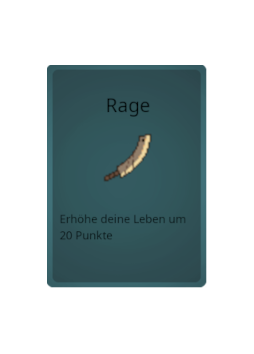
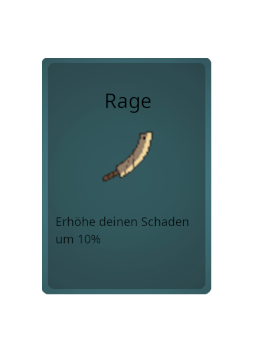
3 upgrade cards appear after leveling up

diff --git a/src/main.py b/src/main.py
@@ -38,6 +38,8 @@ class Survivor:
         self.skeleton_sprites = {}
         self.zombie_sprites = {}
         self.franky_sprites = {}
+        self.upgrade_card_sprites = {}
+        self.upgrade_types = ["dmg", "defense", "health"]
         #Liste von Bildpfaden
         #player_camera = Camera(screen_width, screen_height)
         self.player_can_be_hit = True
@@ -55,7 +57,7 @@ class Survivor:
         
         self.load_sprites_to_animate()
         self.setup_map()
-        Upgrade((self.all_sprites), self.player.pos)
+        Upgrade((self.all_sprites), self.player.pos,"dmg", self.upgrade_card_sprites)
        
        
         self.paused = False
@@ -83,7 +85,12 @@ class Survivor:
 
     def load_sprites_to_animate(self):
         # keine schöne Lösung, aber es funktioniert
+        self.upgrade_card_sprites = {
+            "dmg": ("/".join(["player", "upgrade", "upgrade_dmg.png"])),
+            "defense": ("/".join(["player", "upgrade", "upgrade_defense.png"])),
+            "health": ("/".join(["player", "upgrade", "upgrade_health.png"]))
 
+        }
         
         self.player_sprites = {
             
@@ -246,15 +253,18 @@ class Survivor:
             else: # da auf Objektebene 1 nur spawn punkte und spieler start punkt sind, füge die restlichen koordinaten als spawn punkte für Gegner hinzu
                 self.spawn_points.append((obj.x, obj.y))
         
-     
+   
+    
     def trigger_upgrade_event(self):
         # if player level up, player can choose between three different upgrades
         print("main is level up: ", self.player.is_level_up)
         if self.player.is_level_up == True:
+            upgrades = self.determine_upgrade_type()
             print("Player leveled up")
             for i in range(3):
+                
                 position = (self.player.pos[0] + 170 * i, self.player.pos[1]) - pygame.Vector2(170, 0)
-                Upgrade((self.all_sprites), position)
+                Upgrade((self.all_sprites), position, upgrades[i], self.upgrade_card_sprites)
             self.paused = True
      
     def set_enemy_flag(self):
@@ -373,6 +383,12 @@ class Survivor:
             
             Enemy(self.spawn_points[random_spawn_point], (self.all_sprites, self.enemy_sprites), self.player, self.collision_sprites, 100, path_mino)
     
+    def determine_upgrade_type(self):
+        possible_upgrades = []
+        for upgrade in self.upgrade_types:
+            if upgrade not in possible_upgrades:
+                possible_upgrades.append(upgrade)
+        return possible_upgrades
     
     def run(self):
         #self.load_sprites_to_animate()
@@ -382,7 +398,7 @@ class Survivor:
                     pygame.quit()
                     sys.exit()
                 if event.type == pygame.MOUSEBUTTONDOWN and self.paused == True:
-                    self.paused = False
+                    mouse_position = pygame.mouse.get_pos()
                     
             print(self.player.pos[0], self.player.pos[1])
             #player_camera.update(player, map_size_x, map_size_y)

diff --git a/src/upgrade.py b/src/upgrade.py
@@ -1,18 +1,14 @@
 import pygame
 
 class Upgrade(pygame.sprite.Sprite):
-    def __init__(self, groups, pos):
+    def __init__(self, groups, pos, upgrade_type, sprite_paths):
         super().__init__(groups)
         # self.rect = pygame.Rect(400, 400, 30, 100)
         self.card_position = (pos[0], pos[1])
-        self.image =  pygame.image.load("/".join(["player", "upgrade", "upgrade_dmg.png"]))
+        self.image =  pygame.image.load(sprite_paths[upgrade_type]).convert_alpha()
         self.rect = self.image.get_rect(center=self.card_position)
-
-        self.possible_upgrades = {
-            "dmg": 0.1,
-            "defense": 0.1,
-            "health": 10
-        }
+        self.upgrade_type = upgrade_type
+        
         
     def update(self, time):
         pass
